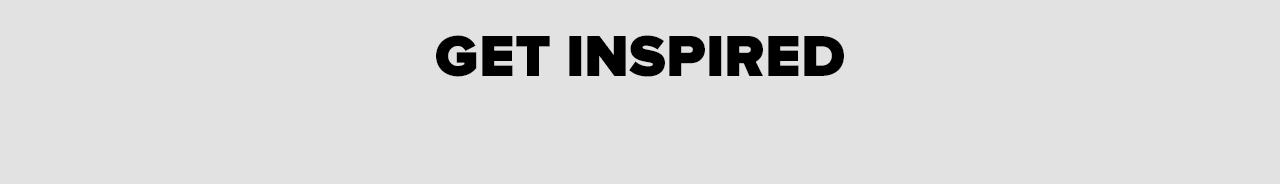
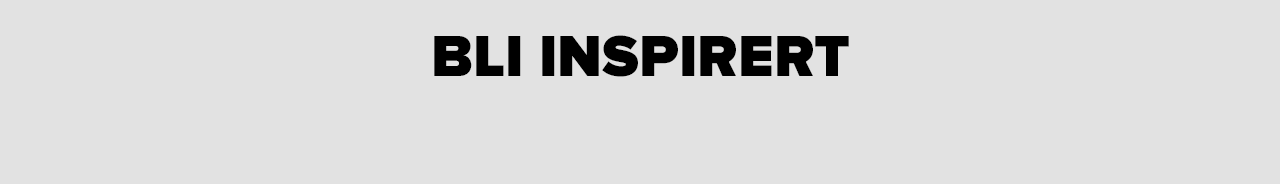
Hoved html oppdaterin
- Oppdatert på norsk
- Videre oppdatering på nettsiden

Changed region(s): [[0.3125, 0.1902, 0.6875, 0.4348]]

diff --git a/style.css b/style.css
@@ -256,3 +256,87 @@ p.textboks2{
 	position: relative;
 }
 
+
+.hovereffect {
+  width: 220px;
+  height: 185px;
+  float: left;
+  overflow: hidden;
+  position: relative;
+  text-align: center;
+  cursor: default;
+}
+
+.hovereffect .overlay {
+  width: 100%;
+  height: 100%;
+  position: absolute;
+  overflow: hidden;
+  top: 0;
+  left: 0;
+  background-color: rgba(75,75,75,0.7);
+  -webkit-transition: all 0.4s ease-in-out;
+  transition: all 0.4s ease-in-out;
+}
+
+.hovereffect:hover .overlay {
+  background-color: rgba(48, 152, 157, 0.4);
+}
+
+.hovereffect img {
+  display: block;
+  position: relative;
+}
+
+.hovereffect h2 {
+  text-transform: uppercase;
+  color: #fff;
+  text-align: center;
+  position: relative;
+  font-size: 17px;
+  padding: 10px;
+  background: rgba(0, 0, 0, 0.6);
+  -webkit-transform: translateY(45px);
+  -ms-transform: translateY(45px);
+  transform: translateY(45px);
+  -webkit-transition: all 0.4s ease-in-out;
+  transition: all 0.4s ease-in-out;
+}
+
+.hovereffect:hover h2 {
+  -webkit-transform: translateY(5px);
+  -ms-transform: translateY(5px);
+  transform: translateY(5px);
+}
+
+.hovereffect a.info {
+  display: inline-block;
+  text-decoration: none;
+  padding: 7px 14px;
+  text-transform: uppercase;
+  color: #fff;
+  border: 1px solid #fff;
+  background-color: transparent;
+  opacity: 0;
+  filter: alpha(opacity=0);
+  -webkit-transform: scale(0);
+  -ms-transform: scale(0);
+  transform: scale(0);
+  -webkit-transition: all 0.4s ease-in-out;
+  transition: all 0.4s ease-in-out;
+  font-weight: normal;
+  margin: -52px 0 0 0;
+  padding: 62px 100px;
+}
+
+.hovereffect:hover a.info {
+  opacity: 1;
+  filter: alpha(opacity=100);
+  -webkit-transform: scale(1);
+  -ms-transform: scale(1);
+  transform: scale(1);
+}
+
+.hovereffect a.info:hover {
+  box-shadow: 0 0 5px #fff;
+}

diff --git a/index.html b/index.html
@@ -29,20 +29,20 @@
 	</nav>
 
 		<img src="bilder/Nord6.jpg" alt="svalbardnordlys" height="600">
-		<img src="bilder/map.png" alt="starnordlysmap"> 
+		<img src="bilder/map.jpg" alt="starnordlysmap"> 
 
 	<div class="container1">
 		<div class="starfont">
-			<p>STAR TO YOUR DREAM</p>
+			<p>NORDLYS DRØMMER</p>
 		</div>
 		<div class="linktekst">
-			<a href="tur.html">See All Things</a> | <a href="">Star Dream Trips Recommendations</a> | <a href="">All Destinations</a>
+			<a href="tur.html">Opplevelser</a> | <a href="">Nordlys Rekommenderte Reiser</a> | <a href="">Alle Destinasjoner</a>
 		</div>
 	</div>
 	
 		<div class="boks1"></div>
 			<div class="bokstekst1">
-				<p class="boksp1">Lonely Planet Recommended #1</p>
+				<p class="boksp1">Lonely Planet Rekommenderer Nordlys #1</p>
 			</div>	
 		<div class="boks2">
 				<div class="bokstekst2"></div>
@@ -50,14 +50,24 @@
 			</div>
 		<div class="boks3"></div>
 			<div class="bokstekst3">
-				<p class="birdfont">DISCOVER YOUR PARADISE</p>
-				<p class="snowfont">#STARDREAM</p>
+				<p class="birdfont">PARADISET AV DYRELIVET</p>
+				<p class="snowfont">#NORDLYS</p>
 			</div>
 		<div class="container3"></div>
 	
 		<div class="container4"></div>	
 			<div class="boxbath">
 			</div>	
+
+		<div class="col-lg-3 col-md-4 col-sm-6 col-xs-12">
+   			 <div class="hovereffect">
+		        <img class="img-responsive" src="http://placehold.it/350x200" alt="">
+		        <div class="overlay">
+           		<h2>Hover effect 4</h2>
+           		<a class="info" href="#">link here</a>
+        </div>
+    </div>
+</div>
 	
 	</body>
 </html>
